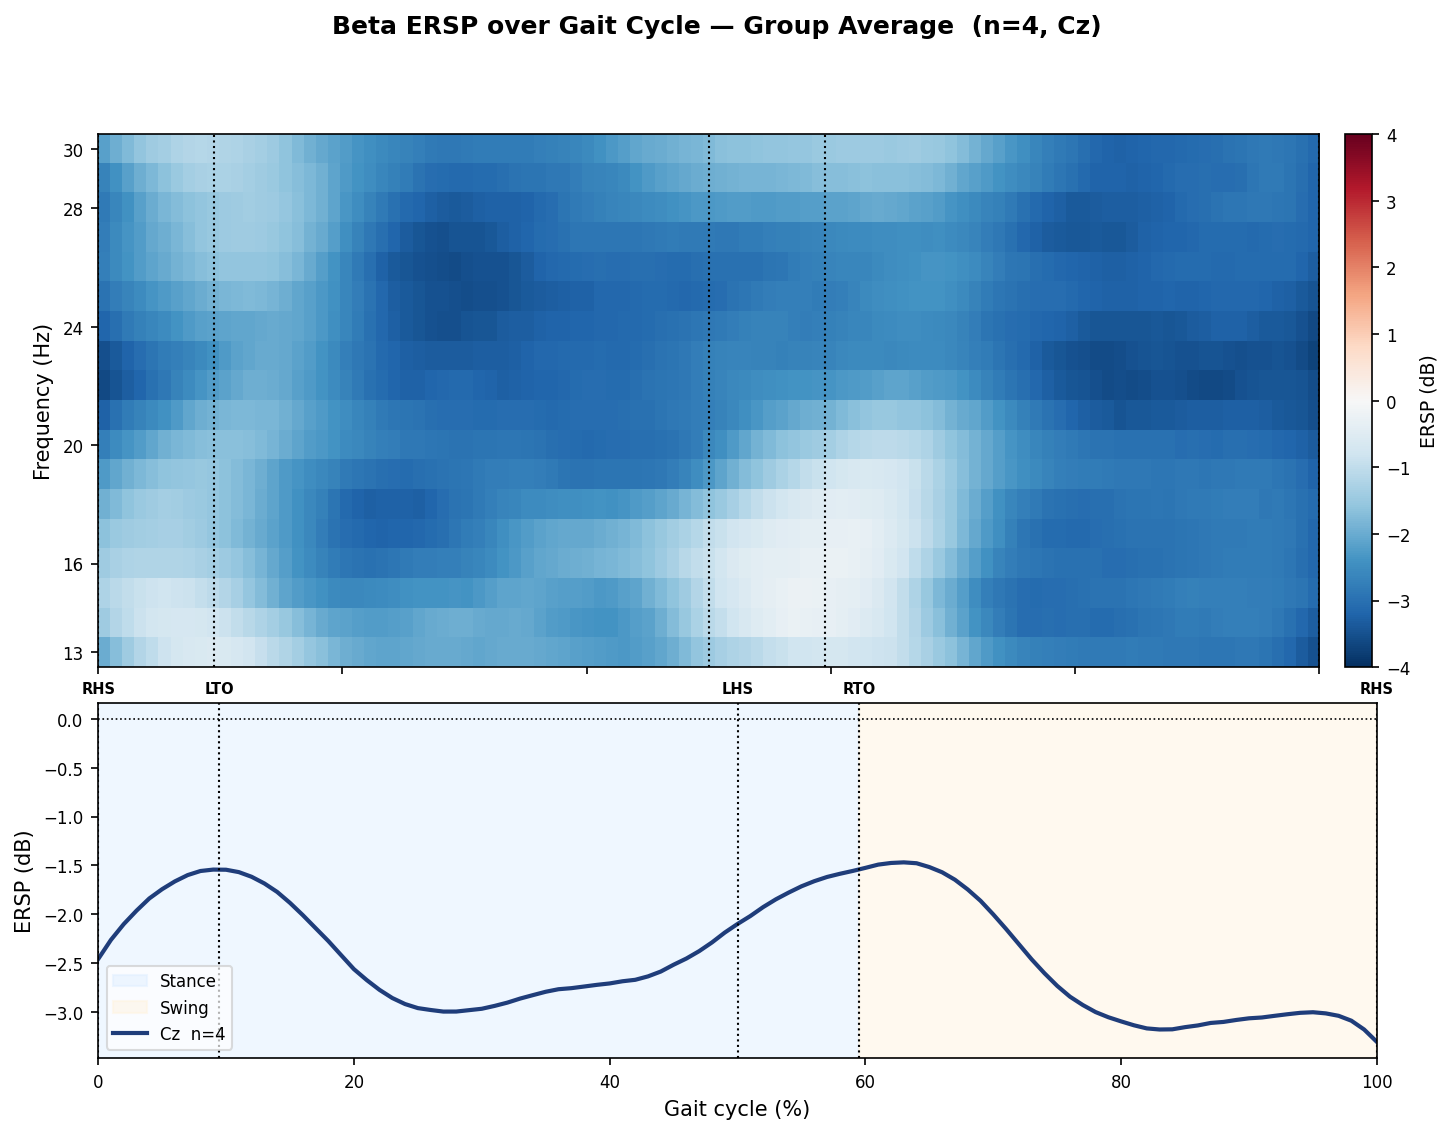
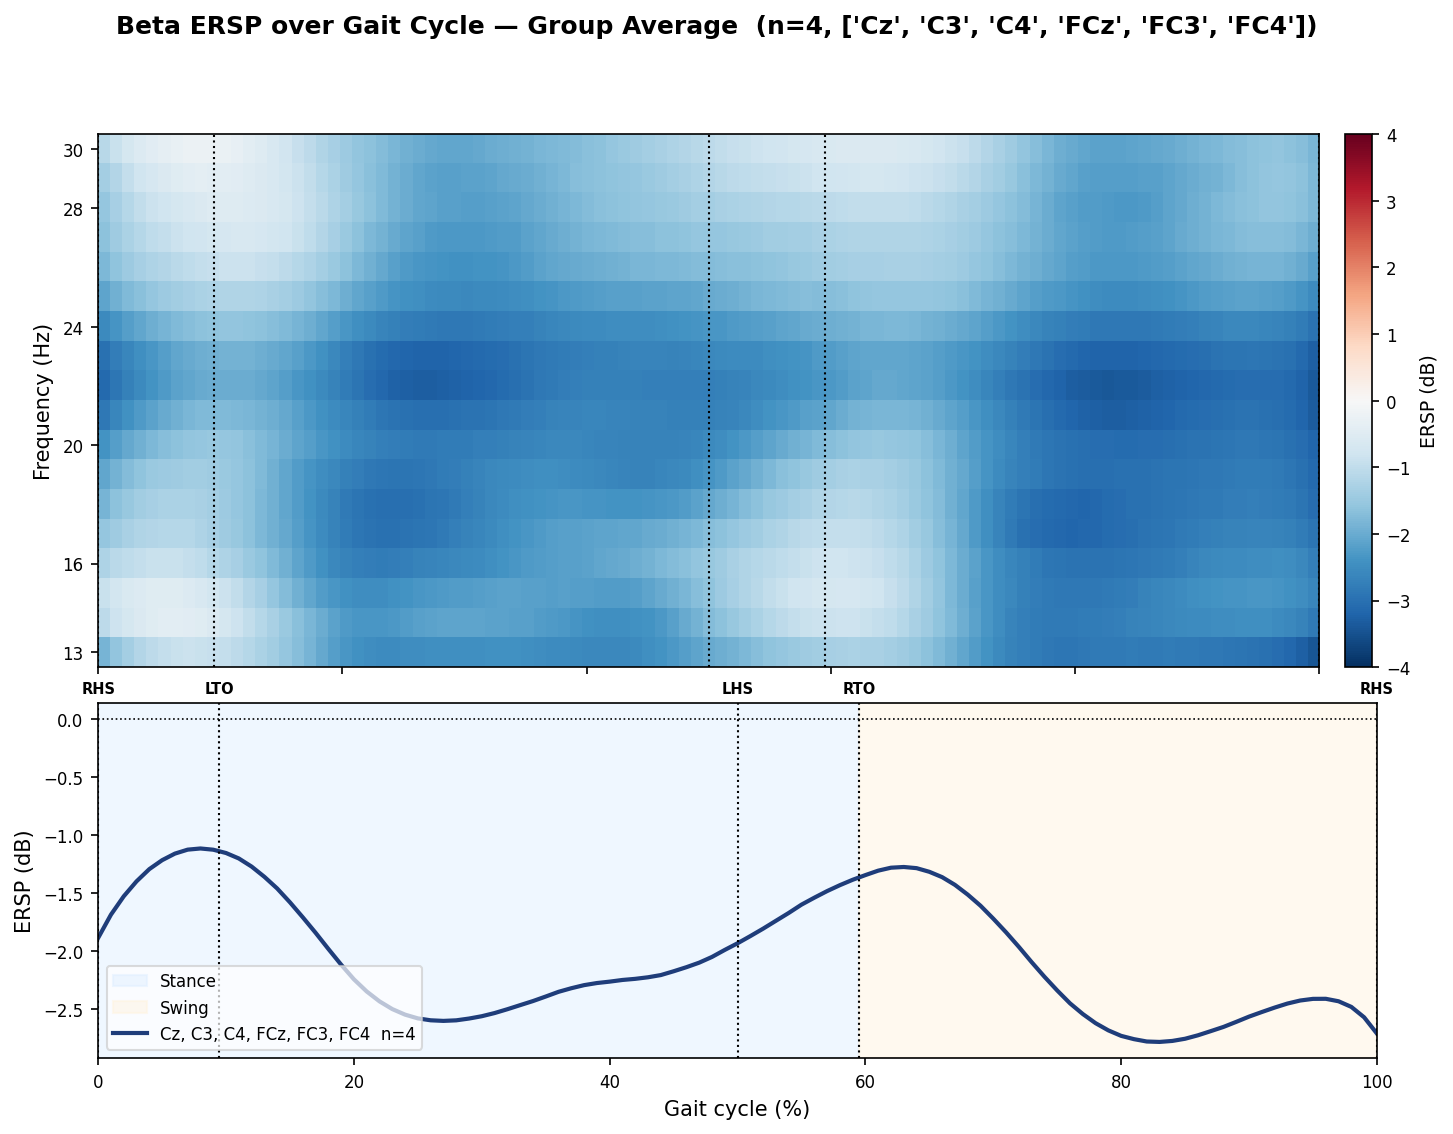
Add new output file for gait analysis and update pipeline scripts for improved functionality

diff --git a/scripts/prepana07_run_full_pipeline.py b/scripts/prepana07_run_full_pipeline.py
@@ -4,14 +4,15 @@ Master pipeline runner for betaGaitMultiverse.
 Runs all six canonical pipeline stages in sequence for all subjects
 defined in src/config.SUBJECTS.
 
-Usage:
-    python scripts/run_pipeline.py           # run all stages
-    python scripts/run_pipeline.py --from 3  # start from stage 3
-    python scripts/run_pipeline.py --only 5  # run only stage 5
+Usage (interactive window):
+    Set MODE at the bottom of this file, then run the file.
+    MODE = "all"   — run all stages in sequence
+    MODE = "from"  — run from FROM_STAGE to end
+    MODE = "only"  — run one stage only (set ONLY_STAGE)
 
 Each stage script is run as a subprocess so that MNE's memory is fully
 released between stages. Stage failures are reported but do not stop
-the remaining stages unless --strict is passed.
+the remaining stages unless STRICT = True.
 
 Stages:
     1  prepana01_prep_gaitevents.py    gait event detection from motion capture
@@ -22,17 +23,12 @@ Stages:
     6  prepana06_plotbetagait.py       group beta ERSP figure
 """
 
-import argparse
 import subprocess
 import sys
 import time
 from pathlib import Path
 
-repo_root = Path(__file__).resolve().parents[1]
-if str(repo_root) not in sys.path:
-    sys.path.insert(0, str(repo_root))
-
-from src.config import SUBJECTS, DATASET
+from src.config import SUBJECTS, DATASET, DIR_SCRIPTS
 
 STAGES = [
     (1, "prepana01_prep_gaitevents.py",  "gait event detection"),
@@ -43,11 +39,8 @@ STAGES = [
     (6, "prepana06_plotbetagait.py",     "group ERSP figure"),
 ]
 
-SCRIPTS_DIR = Path(__file__).resolve().parent
-
-
 def run_stage(stage_num, script_name, description, strict=False):
-    script = SCRIPTS_DIR / script_name
+    script = DIR_SCRIPTS / script_name
     if not script.exists():
         print(f"\n[ERROR] Stage {stage_num} script not found: {script}")
         if strict:
@@ -62,7 +55,7 @@ def run_stage(stage_num, script_name, description, strict=False):
     t0 = time.time()
     result = subprocess.run(
         [sys.executable, str(script)],
-        cwd=str(repo_root)
+        cwd=str(DIR_SCRIPTS.parent)
     )
     elapsed = time.time() - t0
 
@@ -77,41 +70,47 @@ def run_stage(stage_num, script_name, description, strict=False):
     return True
 
 
-def main():
-    parser = argparse.ArgumentParser(
-        description="Run the betaGaitMultiverse canonical pipeline"
-    )
-    parser.add_argument(
-        "--from", dest="from_stage", type=int, default=1,
-        help="Start from this stage number (default: 1)"
-    )
-    parser.add_argument(
-        "--only", type=int, default=None,
-        help="Run only this stage number"
-    )
-    parser.add_argument(
-        "--strict", action="store_true",
-        help="Stop on first stage failure"
-    )
-    args = parser.parse_args()
+# ---------------------------------------------------------------------------
+# Run — set MODE and options before executing in interactive window
+#
+#   "all"   : run all stages in sequence
+#   "from"  : run from FROM_STAGE to end
+#   "only"  : run one stage only
+# ---------------------------------------------------------------------------
+MODE        = "all"    # change this before running
+FROM_STAGE  = 1        # only used when MODE = "from"
+ONLY_STAGE  = 6        # only used when MODE = "only"
+STRICT      = False    # if True, stop on first stage failure
 
+if MODE == "all":
+    stages_to_run = STAGES
+
+elif MODE == "from":
+    stages_to_run = [s for s in STAGES if s[0] >= FROM_STAGE]
+    if not stages_to_run:
+        print(f"No stages with number >= {FROM_STAGE}")
+        stages_to_run = []
+
+elif MODE == "only":
+    stages_to_run = [s for s in STAGES if s[0] == ONLY_STAGE]
+    if not stages_to_run:
+        print(f"No stage with number {ONLY_STAGE}")
+        stages_to_run = []
+
+else:
+    print(f"Unknown MODE '{MODE}'. Choose: all / from / only")
+    stages_to_run = []
+
+if stages_to_run:
     print(f"\nbetaGaitMultiverse — canonical pipeline")
     print(f"Dataset  : {DATASET}")
     print(f"Subjects : {SUBJECTS}")
 
-    stages_to_run = STAGES
-    if args.only is not None:
-        stages_to_run = [s for s in STAGES if s[0] == args.only]
-        if not stages_to_run:
-            print(f"No stage with number {args.only}")
-            sys.exit(1)
-    else:
-        stages_to_run = [s for s in STAGES if s[0] >= args.from_stage]
+    results  = []
+    t_total  = time.time()
 
-    results = []
-    t_total = time.time()
     for stage_num, script_name, description in stages_to_run:
-        ok = run_stage(stage_num, script_name, description, args.strict)
+        ok = run_stage(stage_num, script_name, description, STRICT)
         results.append((stage_num, description, ok))
 
     print(f"\n{'='*60}")
@@ -123,4 +122,4 @@ def main():
 
     failed = [r for r in results if not r[2]]
     if failed:
-        sys.exit(1)
+        print(f"\n  {len(failed)} stage(s) failed.")

diff --git a/scripts/prepana06_plotbetagait.py b/scripts/prepana06_plotbetagait.py
@@ -27,7 +27,7 @@ from src.paths import get_dataset_dirs
 from src.config import DATASET, SUBJECTS, DIR_PLOTS, DIR_QC
 from src.qc import log_qc
 
-ROI_CHANNEL  = "Cz"
+ROI_CHANNEL  = ["Cz","C3","C4", "FCz", "FC3", "FC4"]  # central midline + nearby channels; adjust if missing
 FREQS        = np.arange(13, 31)
 ERSP_CLIM    = 4.0        # symmetric dB limit; adjust if group mean is clipped
 STANCE_COLOR = "#DDEEFF"  # light blue
@@ -53,12 +53,12 @@ for subject in SUBJECTS:
         raw_ref  = mne.io.read_raw_fif(clean_path, preload=False, verbose=False)
         ch_names = list(raw_ref.ch_names)
 
-        if ROI_CHANNEL not in ch_names:
-            print(f"  [WARN] sub-{subject}: {ROI_CHANNEL} not in channel list -- skipping.")
+        if not any(channel in ch_names for channel in ROI_CHANNEL):
+            print(f"  [WARN] sub-{subject}: None of {ROI_CHANNEL} in channel list -- skipping.")
             continue
 
-        roi_idx  = ch_names.index(ROI_CHANNEL)
-        ersp_roi = ersp[roi_idx]   # (n_freqs, 101)
+        roi_indices = [ch_names.index(channel) for channel in ROI_CHANNEL if channel in ch_names]
+        ersp_roi = np.mean(ersp[roi_indices], axis=0)  # (n_freqs, 101)
 
         dur      = cycles["rhs_end_s"].values - cycles["rhs_start_s"].values
         lto_pct  = (cycles["lto_s"].values  - cycles["rhs_start_s"].values) / dur * 100
@@ -189,7 +189,7 @@ ax_trace.axhline(0, color="black", linewidth=0.8,
 ax_trace.plot(
     gait_pct, beta_trace,
     color="#1f3d7a", linewidth=2.0,
-    zorder=2, label=f"{ROI_CHANNEL}  n={n_subjects}"
+    zorder=2, label=f"{', '.join(ROI_CHANNEL)}  n={n_subjects}"
 )
 ax_trace.set_xlabel("Gait cycle (%)", fontsize=10)
 ax_trace.set_ylabel("ERSP (dB)", fontsize=10)

diff --git a/src/config.py b/src/config.py
@@ -38,6 +38,7 @@ DIR_PROJ = Path(__file__).resolve().parents[1]
 
 # Define paths for data directories
 DIR_DATASETS = define_dir(DIR_PROJ, "datasets")
+DIR_SCRIPTS  = define_dir(DIR_PROJ, "scripts")
 DIR_RESULTS  = define_dir(DIR_PROJ, "results")
 DIR_PLOTS = define_dir(DIR_RESULTS, "pipeline", "plots")
 DIR_QC    = define_dir(DIR_RESULTS, "pipeline", "qc")
